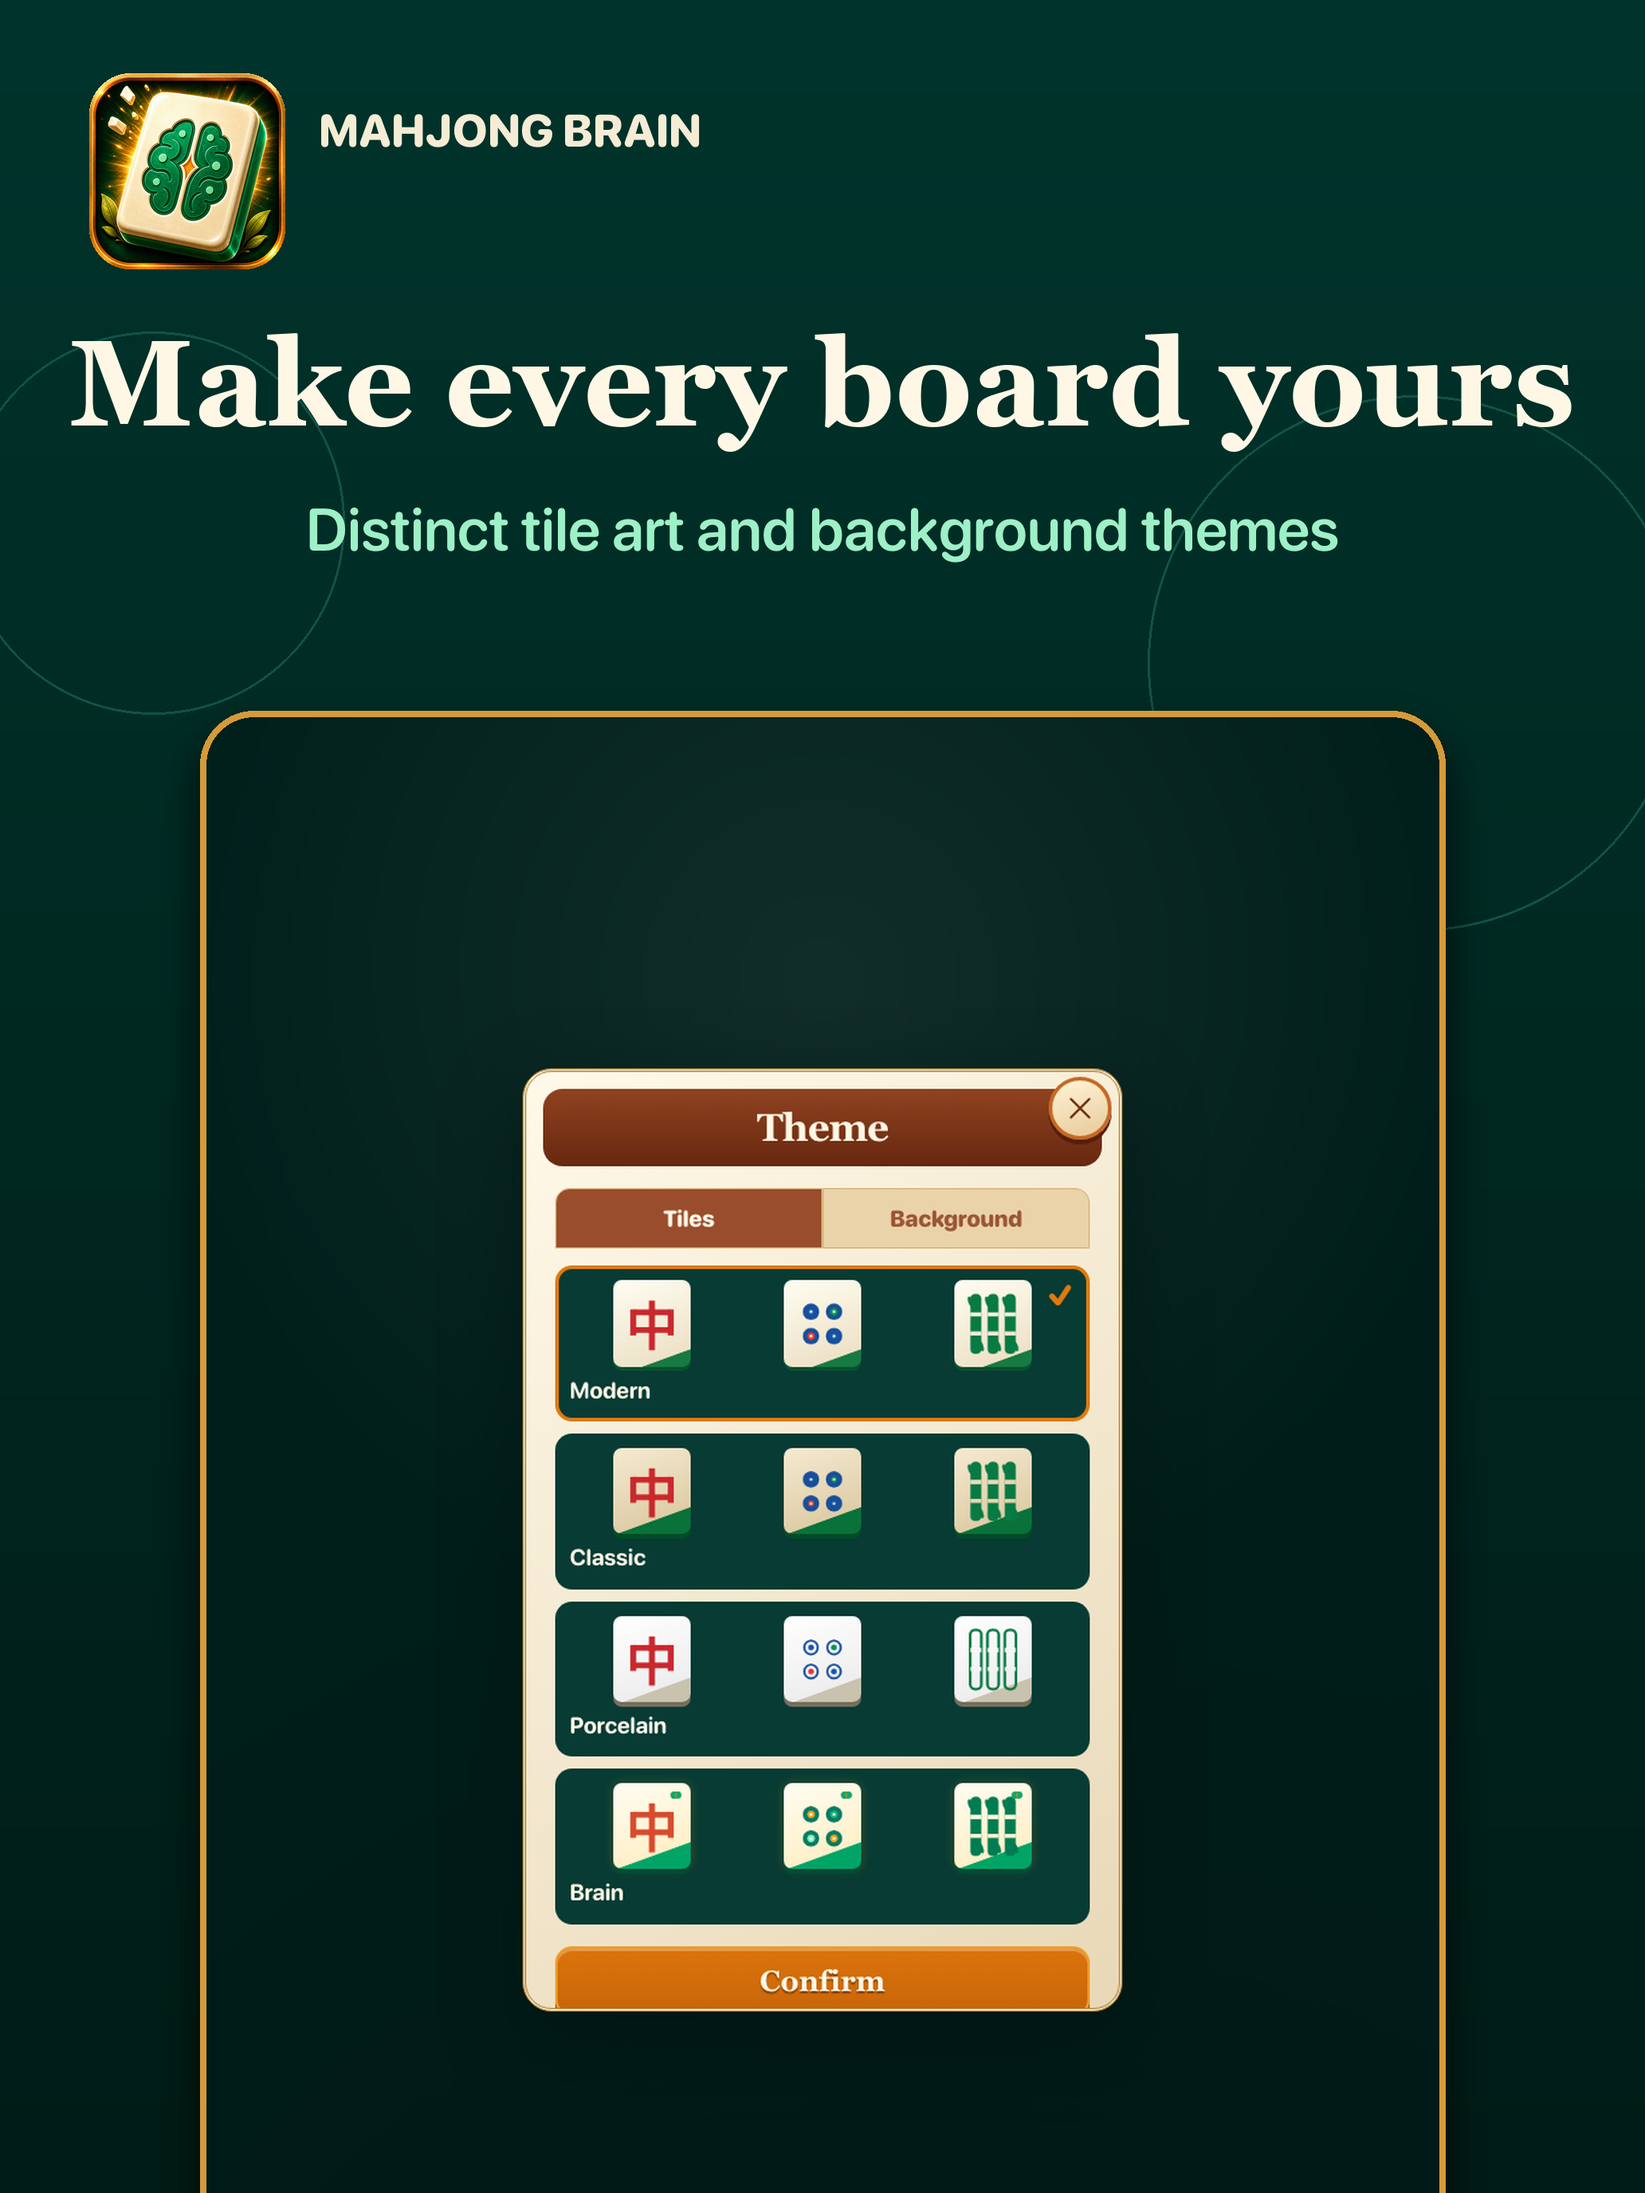
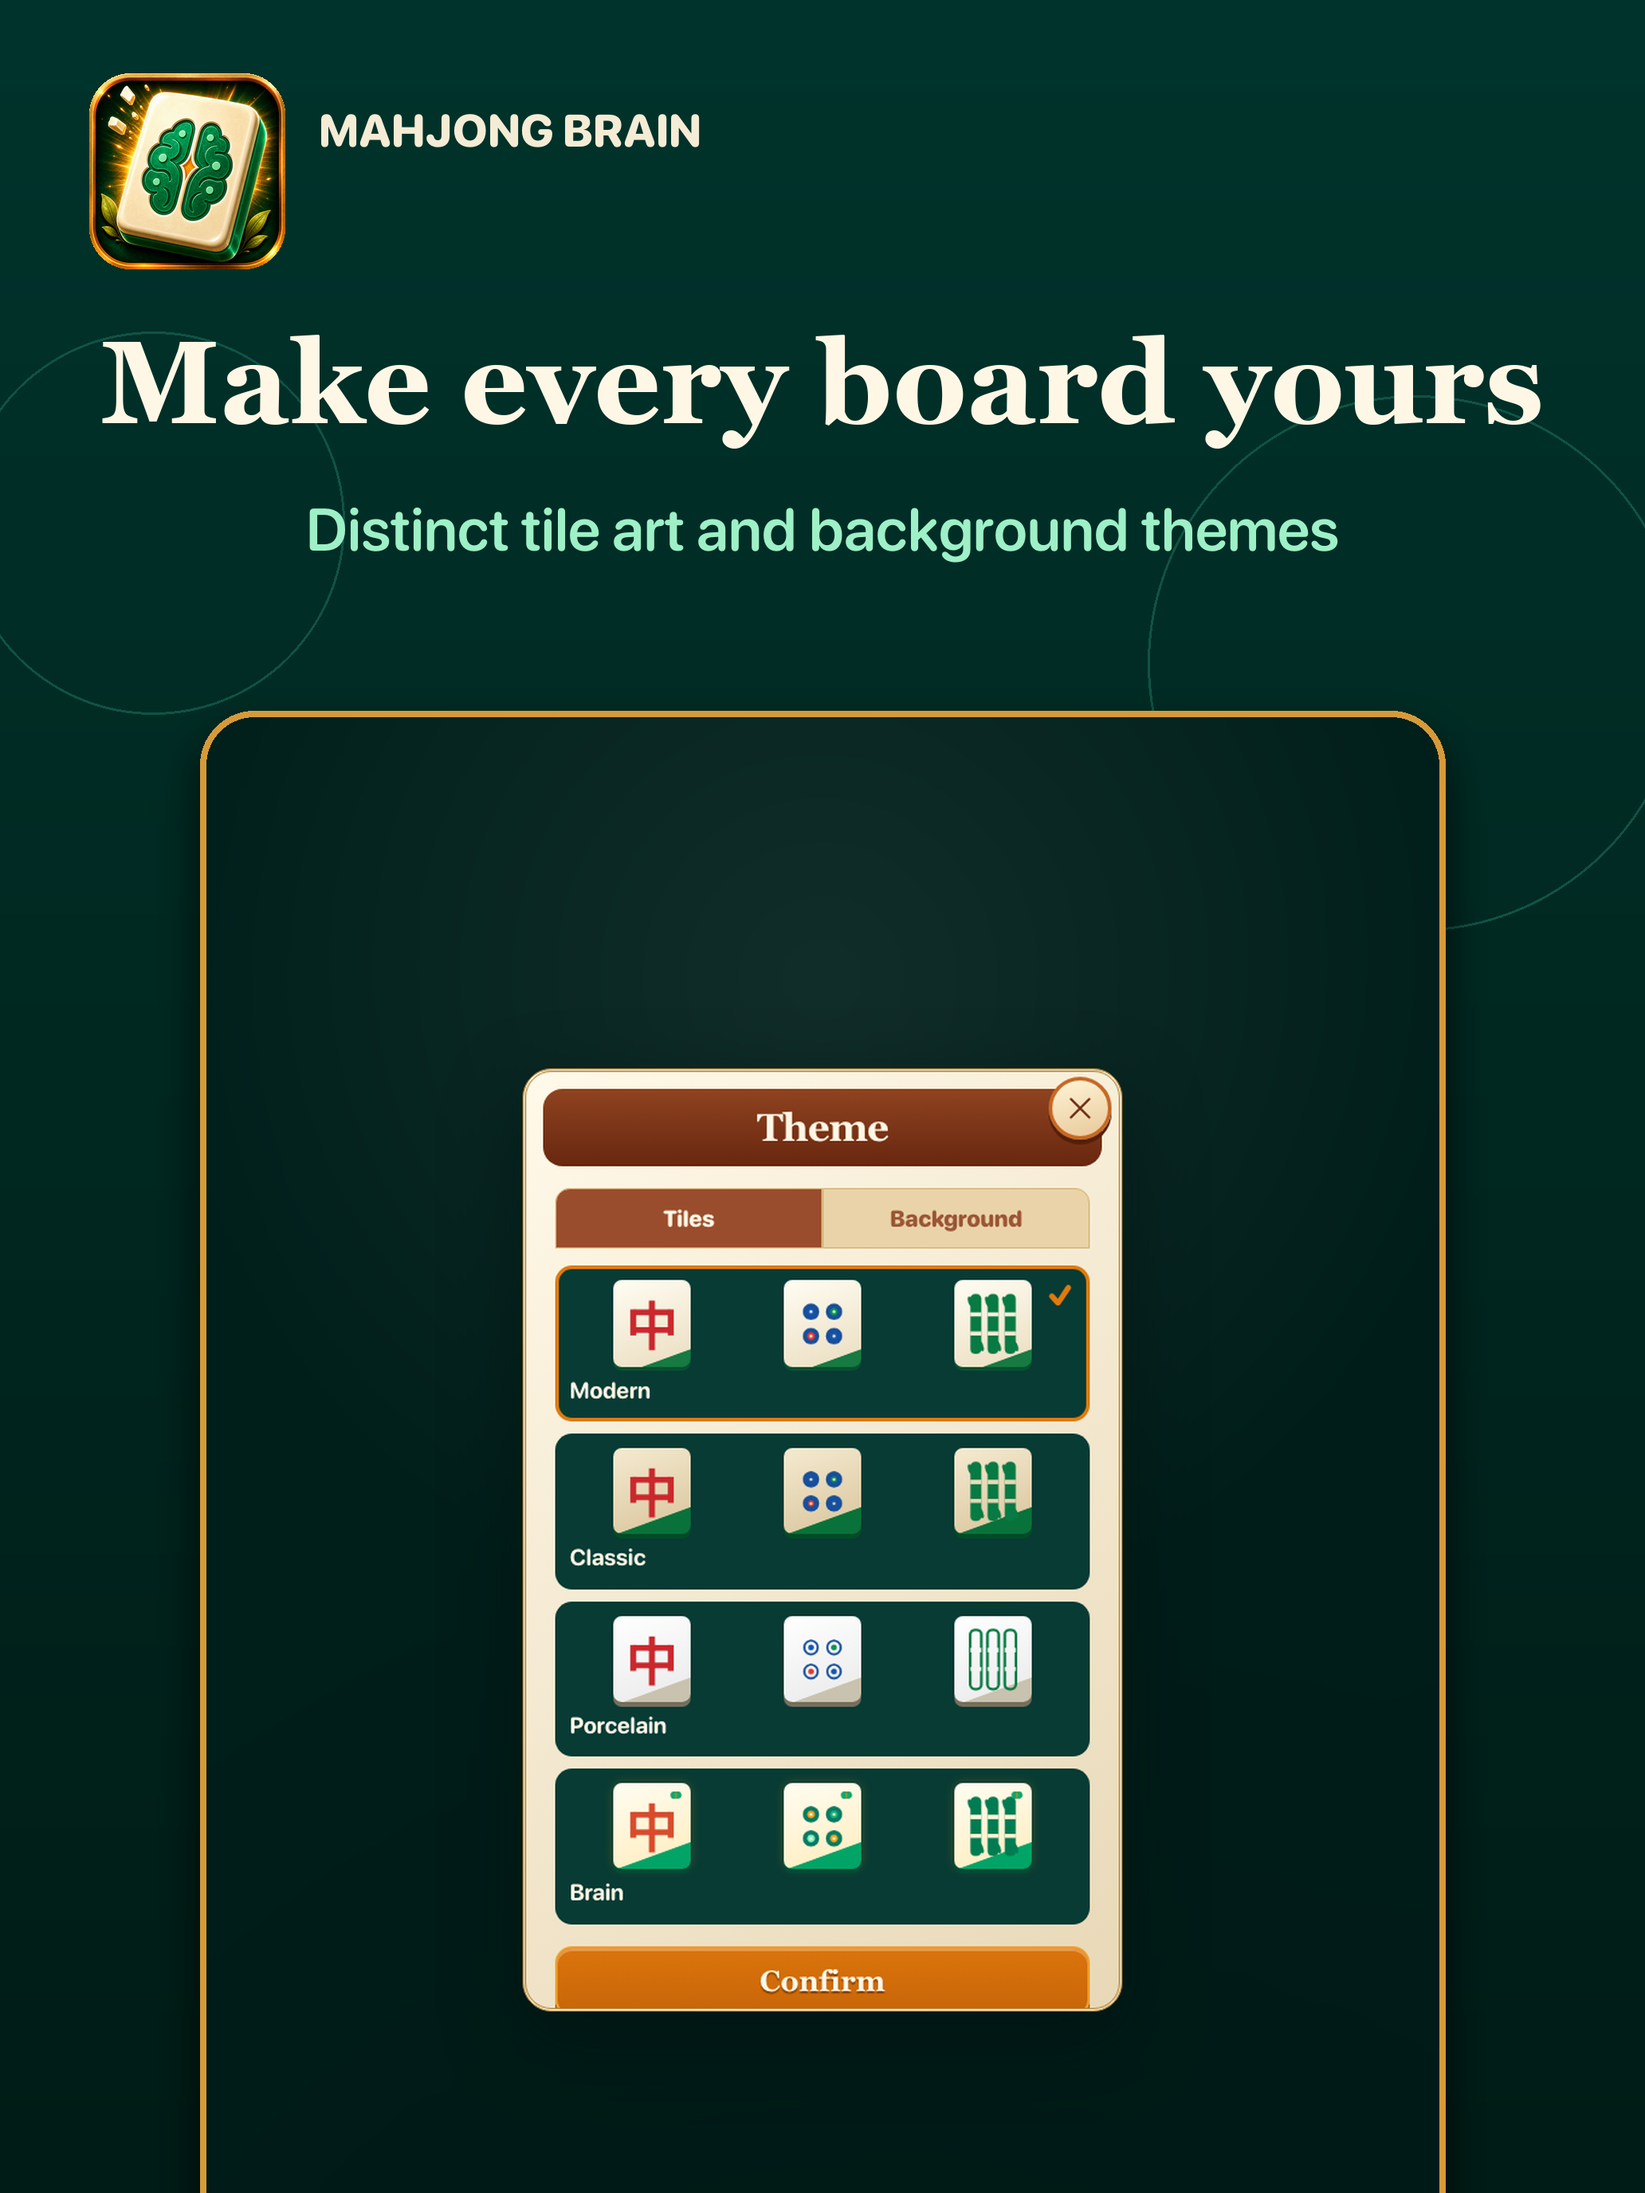
fix(design): keep hint guidance out of pill styling

Changed region(s): [[0.5581, 0.1562, 0.9612, 0.2188], [0.031, 0.1562, 0.4651, 0.2188]]

diff --git a/scripts/render-app-store-screenshots.py b/scripts/render-app-store-screenshots.py
@@ -29,6 +29,24 @@ BODY = font("/Library/Fonts/SF-Pro-Rounded-Semibold.otf", 47)
 LABEL = font("/Library/Fonts/SF-Pro-Rounded-Heavy.otf", 36)
 
 
+def fit_font(path: str, preferred_size: int, text: str, max_width: int, minimum_size: int) -> ImageFont.FreeTypeFont:
+    size = preferred_size
+    probe = ImageDraw.Draw(Image.new("RGB", (1, 1)))
+    while size >= minimum_size:
+        candidate = font(path, size)
+        bounds = probe.textbbox((0, 0), text, font=candidate)
+        if bounds[2] - bounds[0] <= max_width:
+            return candidate
+        size -= 2
+    raise ValueError(f"App Store copy cannot fit at the minimum type size: {text!r}")
+
+
+def assert_text_fits(draw: ImageDraw.ImageDraw, text: str, font_face: ImageFont.FreeTypeFont, max_width: int) -> None:
+    bounds = draw.textbbox((0, 0), text, font=font_face)
+    if bounds[2] - bounds[0] > max_width:
+        raise ValueError(f"App Store copy exceeds its safe width: {text!r}")
+
+
 def rounded(image: Image.Image, radius: int) -> Image.Image:
     mask = Image.new("L", image.size, 0)
     ImageDraw.Draw(mask).rounded_rectangle((0, 0, image.width - 1, image.height - 1), radius, fill=255)
@@ -54,8 +72,24 @@ def render(output_dir: Path, size: tuple[int, int], output_name: str, source_nam
     canvas.paste(rounded(icon, int(32 * scale)), (int(70 * scale), int(58 * scale)), rounded(icon, int(32 * scale)))
     draw.text((int(250 * scale), int(102 * scale)), "MAHJONG BRAIN", font=font("/Library/Fonts/SF-Pro-Rounded-Heavy.otf", int(36 * scale)), fill="#f5ecd5", anchor="lm")
 
-    draw.text((size[0] // 2, int(300 * scale)), headline, font=font("/System/Library/Fonts/Supplemental/Georgia Bold.ttf", int(96 * scale)), fill="#fff7e5", anchor="mm", align="center")
-    draw.text((size[0] // 2, int(415 * scale)), subhead, font=font("/Library/Fonts/SF-Pro-Rounded-Semibold.otf", int(47 * scale)), fill="#9ef0c7", anchor="mm", align="center")
+    headline_font = fit_font(
+        "/System/Library/Fonts/Supplemental/Georgia Bold.ttf",
+        int(96 * scale),
+        headline,
+        int(size[0] * 0.88),
+        int(52 * scale),
+    )
+    subhead_font = fit_font(
+        "/Library/Fonts/SF-Pro-Rounded-Semibold.otf",
+        int(47 * scale),
+        subhead,
+        int(size[0] * 0.86),
+        int(34 * scale),
+    )
+    assert_text_fits(draw, headline, headline_font, int(size[0] * 0.88))
+    assert_text_fits(draw, subhead, subhead_font, int(size[0] * 0.86))
+    draw.text((size[0] // 2, int(300 * scale)), headline, font=headline_font, fill="#fff7e5", anchor="mm", align="center")
+    draw.text((size[0] // 2, int(415 * scale)), subhead, font=subhead_font, fill="#9ef0c7", anchor="mm", align="center")
 
     source_dir = SOURCE / ("ipad" if size[0] > 1500 else "iphone")
     source = Image.open(source_dir / source_name).convert("RGB")
